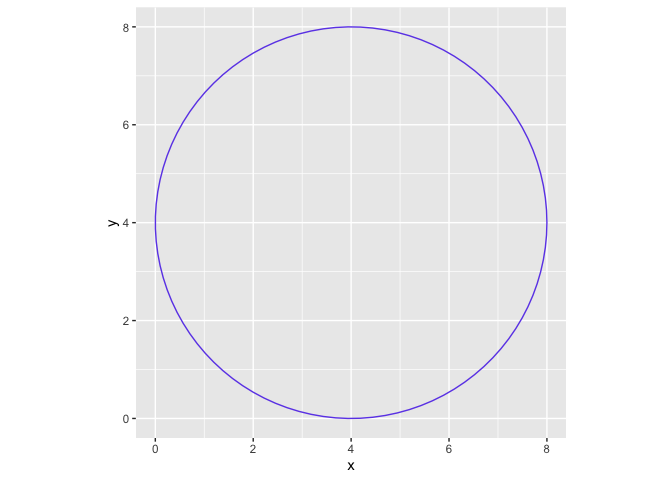
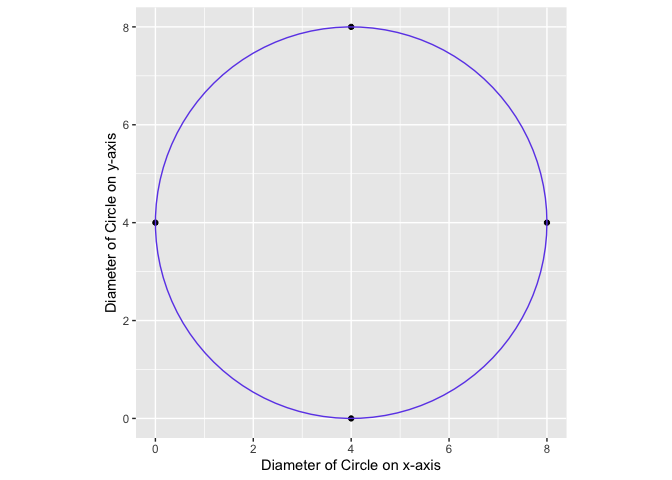
fixed tests for surf area functs

Changed region(s): [[0.375, 0.9375, 0.6562, 1.0], [0.1562, 0.2812, 0.1875, 0.6562], [0.5, 0.0312, 0.5312, 0.0625]]

diff --git a/README.md b/README.md
@@ -45,19 +45,21 @@ area_circle(4, 1)
 
     ## [1] 50.26548
 
-Calculations of area of a pentagon:
+Calculations of area of a pentagon without a graph:
 
 ``` r
-area_pentagon(3, 4)
+area_pentagon(3, 4, 0)
 ```
 
-    ## [1] 3.5
+    ## [1] 15.4843
 
-Calculations of area of octagon:
+Calculations of area of octagon with a graph:
 
 ``` r
-area_octagon(6)
+area_octagon(6, 1)
 ```
+
+![](README_files/figure-gfm/unnamed-chunk-4-1.png)<!-- -->
 
     ## [1] 173.8234
 
